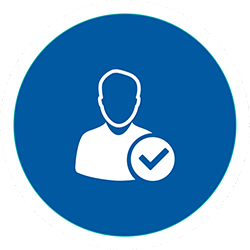
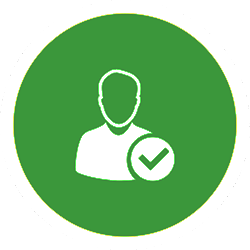
modified login screen style

diff --git a/resources/templates/login.html b/resources/templates/login.html
@@ -19,20 +19,20 @@
     width: 100%;
 }
 </style>
-<div class="container" style="padding-top:100px">
+<div class="container" style="padding-top:50px">
     <div class="form-signin">
-        <div style="padding-top:25px;padding-bottom:30px;text-align:center">
-		    <img style="width:100%" src="imgs/login_title.png"/>
+        <div style="padding-top:25px;padding-bottom:50px;text-align:center">
+		    <img src="imgs/login_title.png"/>
         </div>
         <div class="form-group">
-          <input id="user" type="text" class="form-control" placeholder="username" value="{{.User}}" />
+          <input id="user" type="text" class="form-control" placeholder="用户名" value="{{.User}}" />
         </div>
         <div class="form-group">
-          <input id="pass" type="password" class="form-control" placeholder="password" />
+          <input id="pass" type="password" class="form-control" placeholder="密码" />
         </div>
         <div id="error" style="color:red;padding-bottom:10px">{{.Err}}</div>
         <div class="form-group">
-          <button id="commit" class="btn btn-primary"><b>Login</b></button>
+          <button id="commit" class="btn btn-success"><b>登 &nbsp; &nbsp; 录</b></button>
         </div>
     </div>
 </div>

diff --git a/resources/templates/shared/header.html b/resources/templates/shared/header.html
@@ -1,8 +1,7 @@
 {{define "header"}}
 <html>
-
 <head>
-  <title>go-webserver {{ver}}</title>
+  <title>Store Keeper {{ver}}</title>
   <meta charset="utf-8" />
   <meta name="viewport" content="width=device-width, initial-scale=1.0, user-scalable=0">
   <link rel="stylesheet" href="/bootstrap/bootstrap.min.css">
